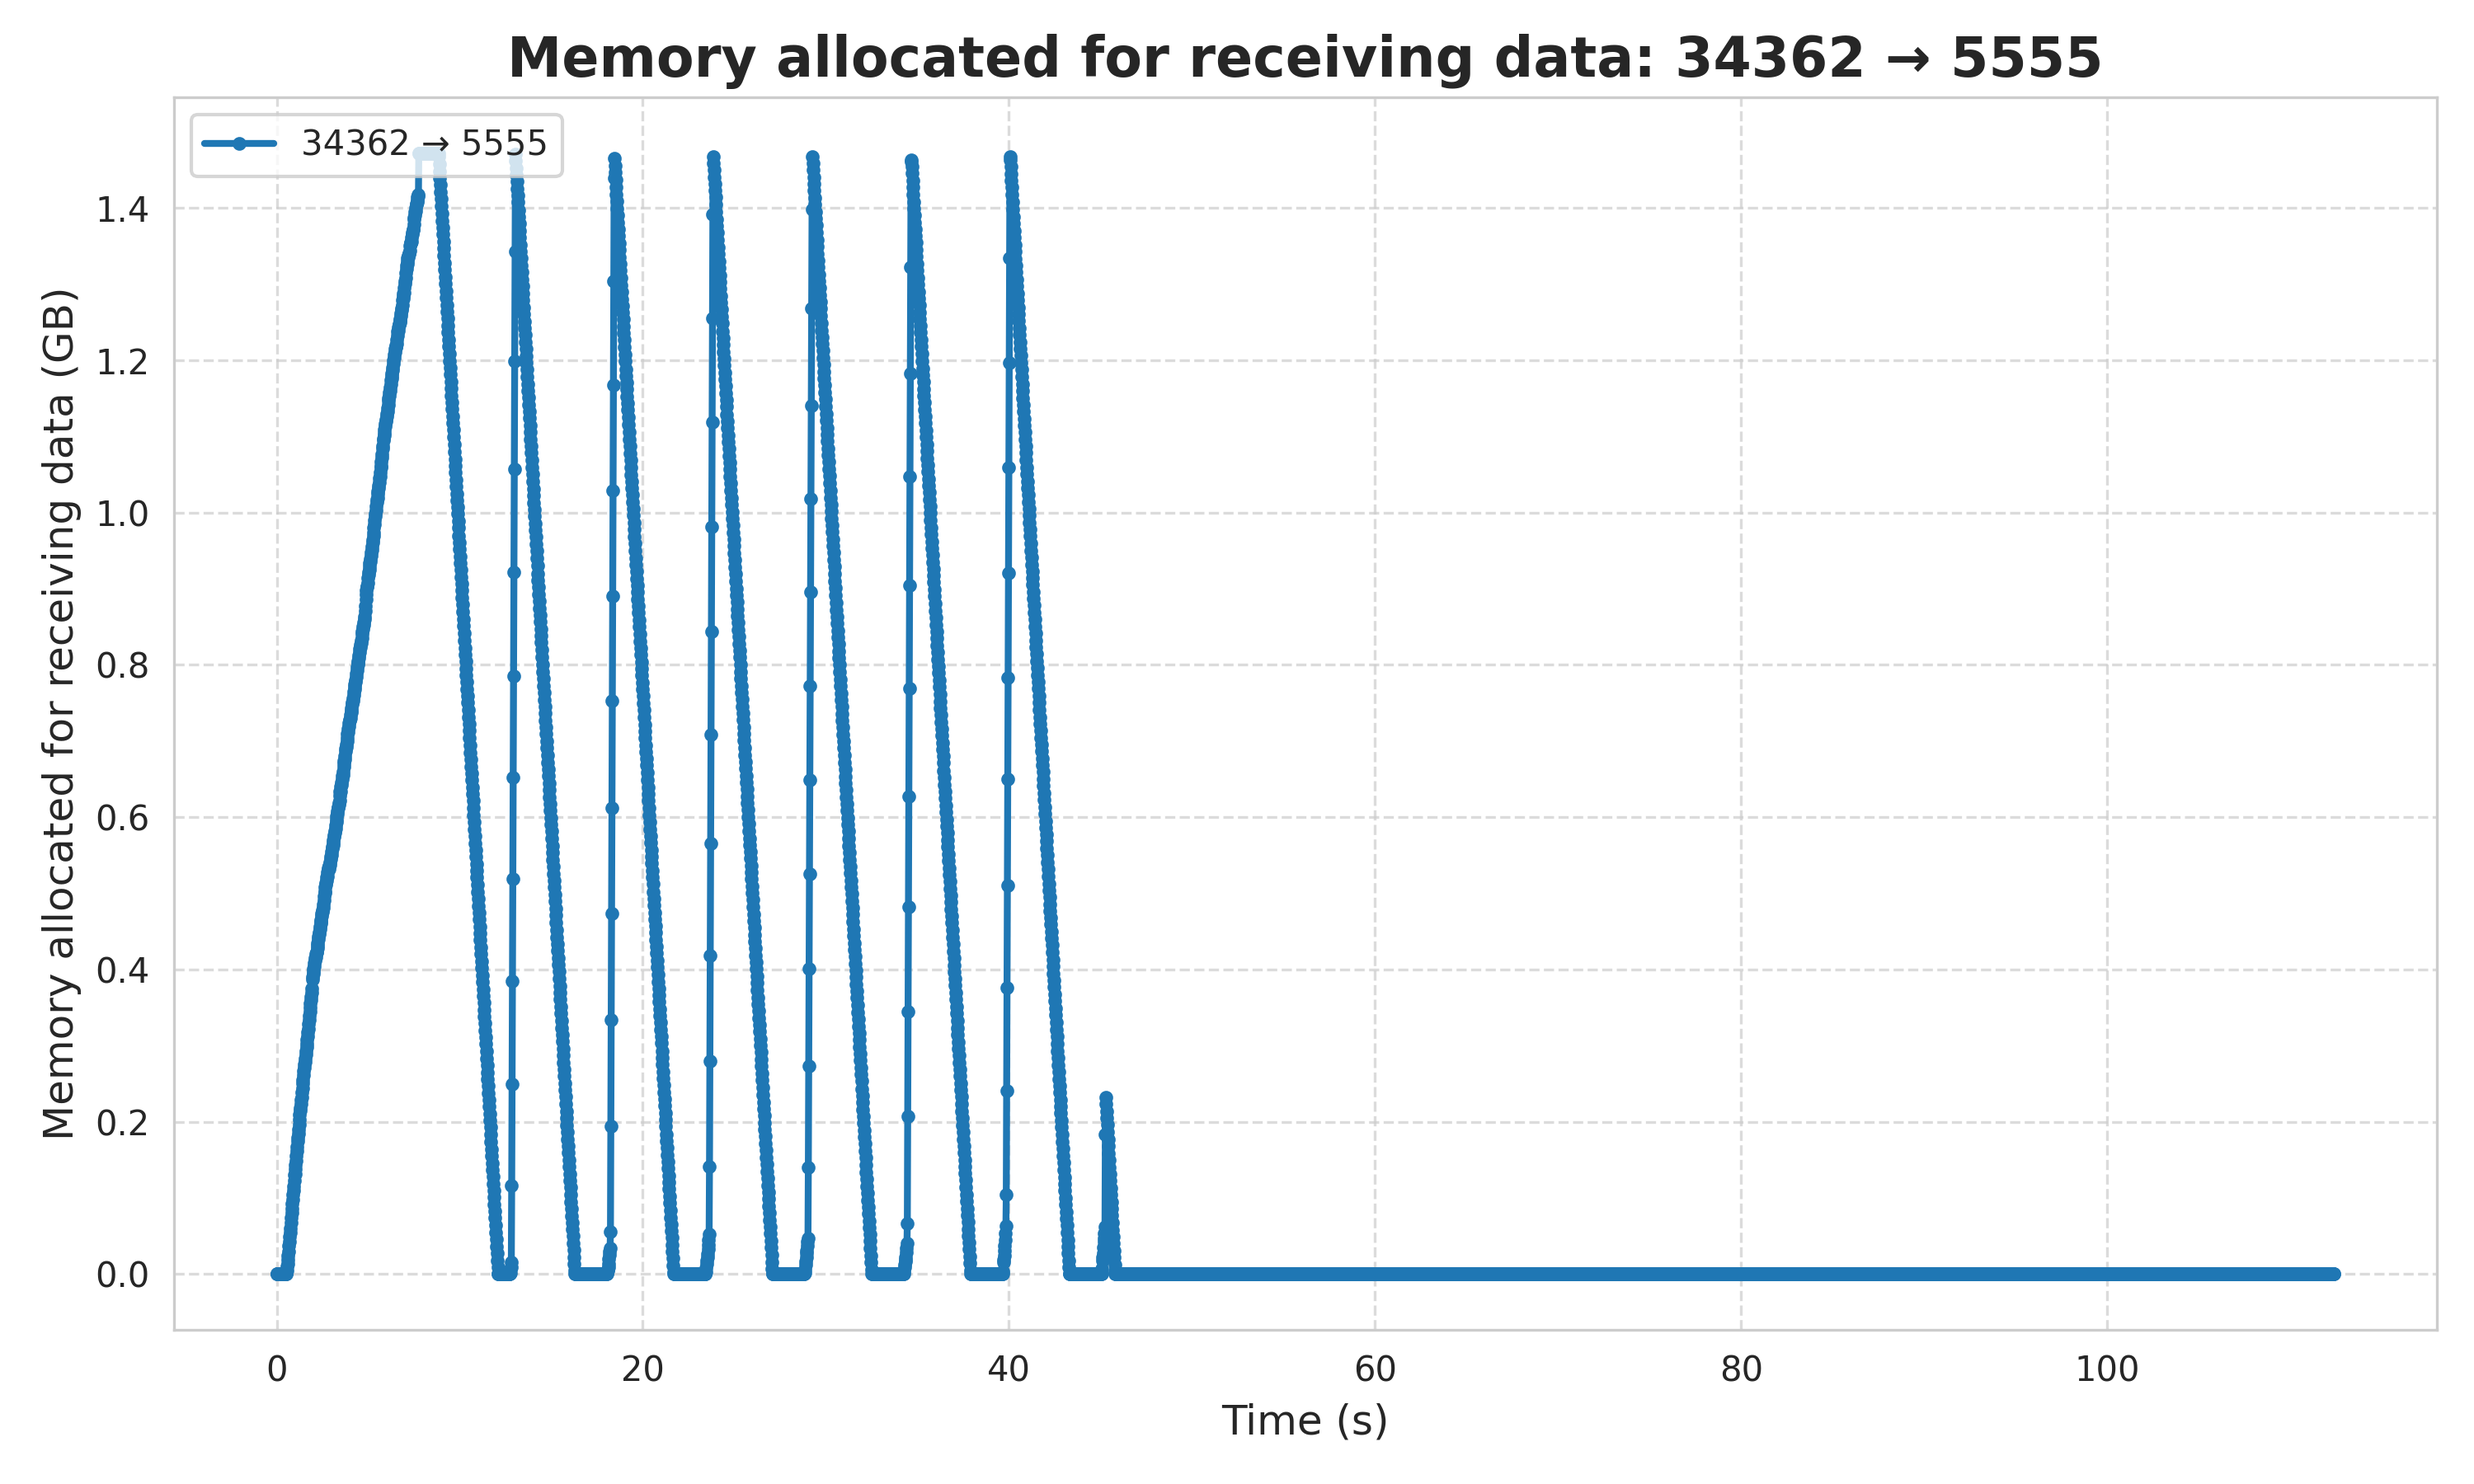
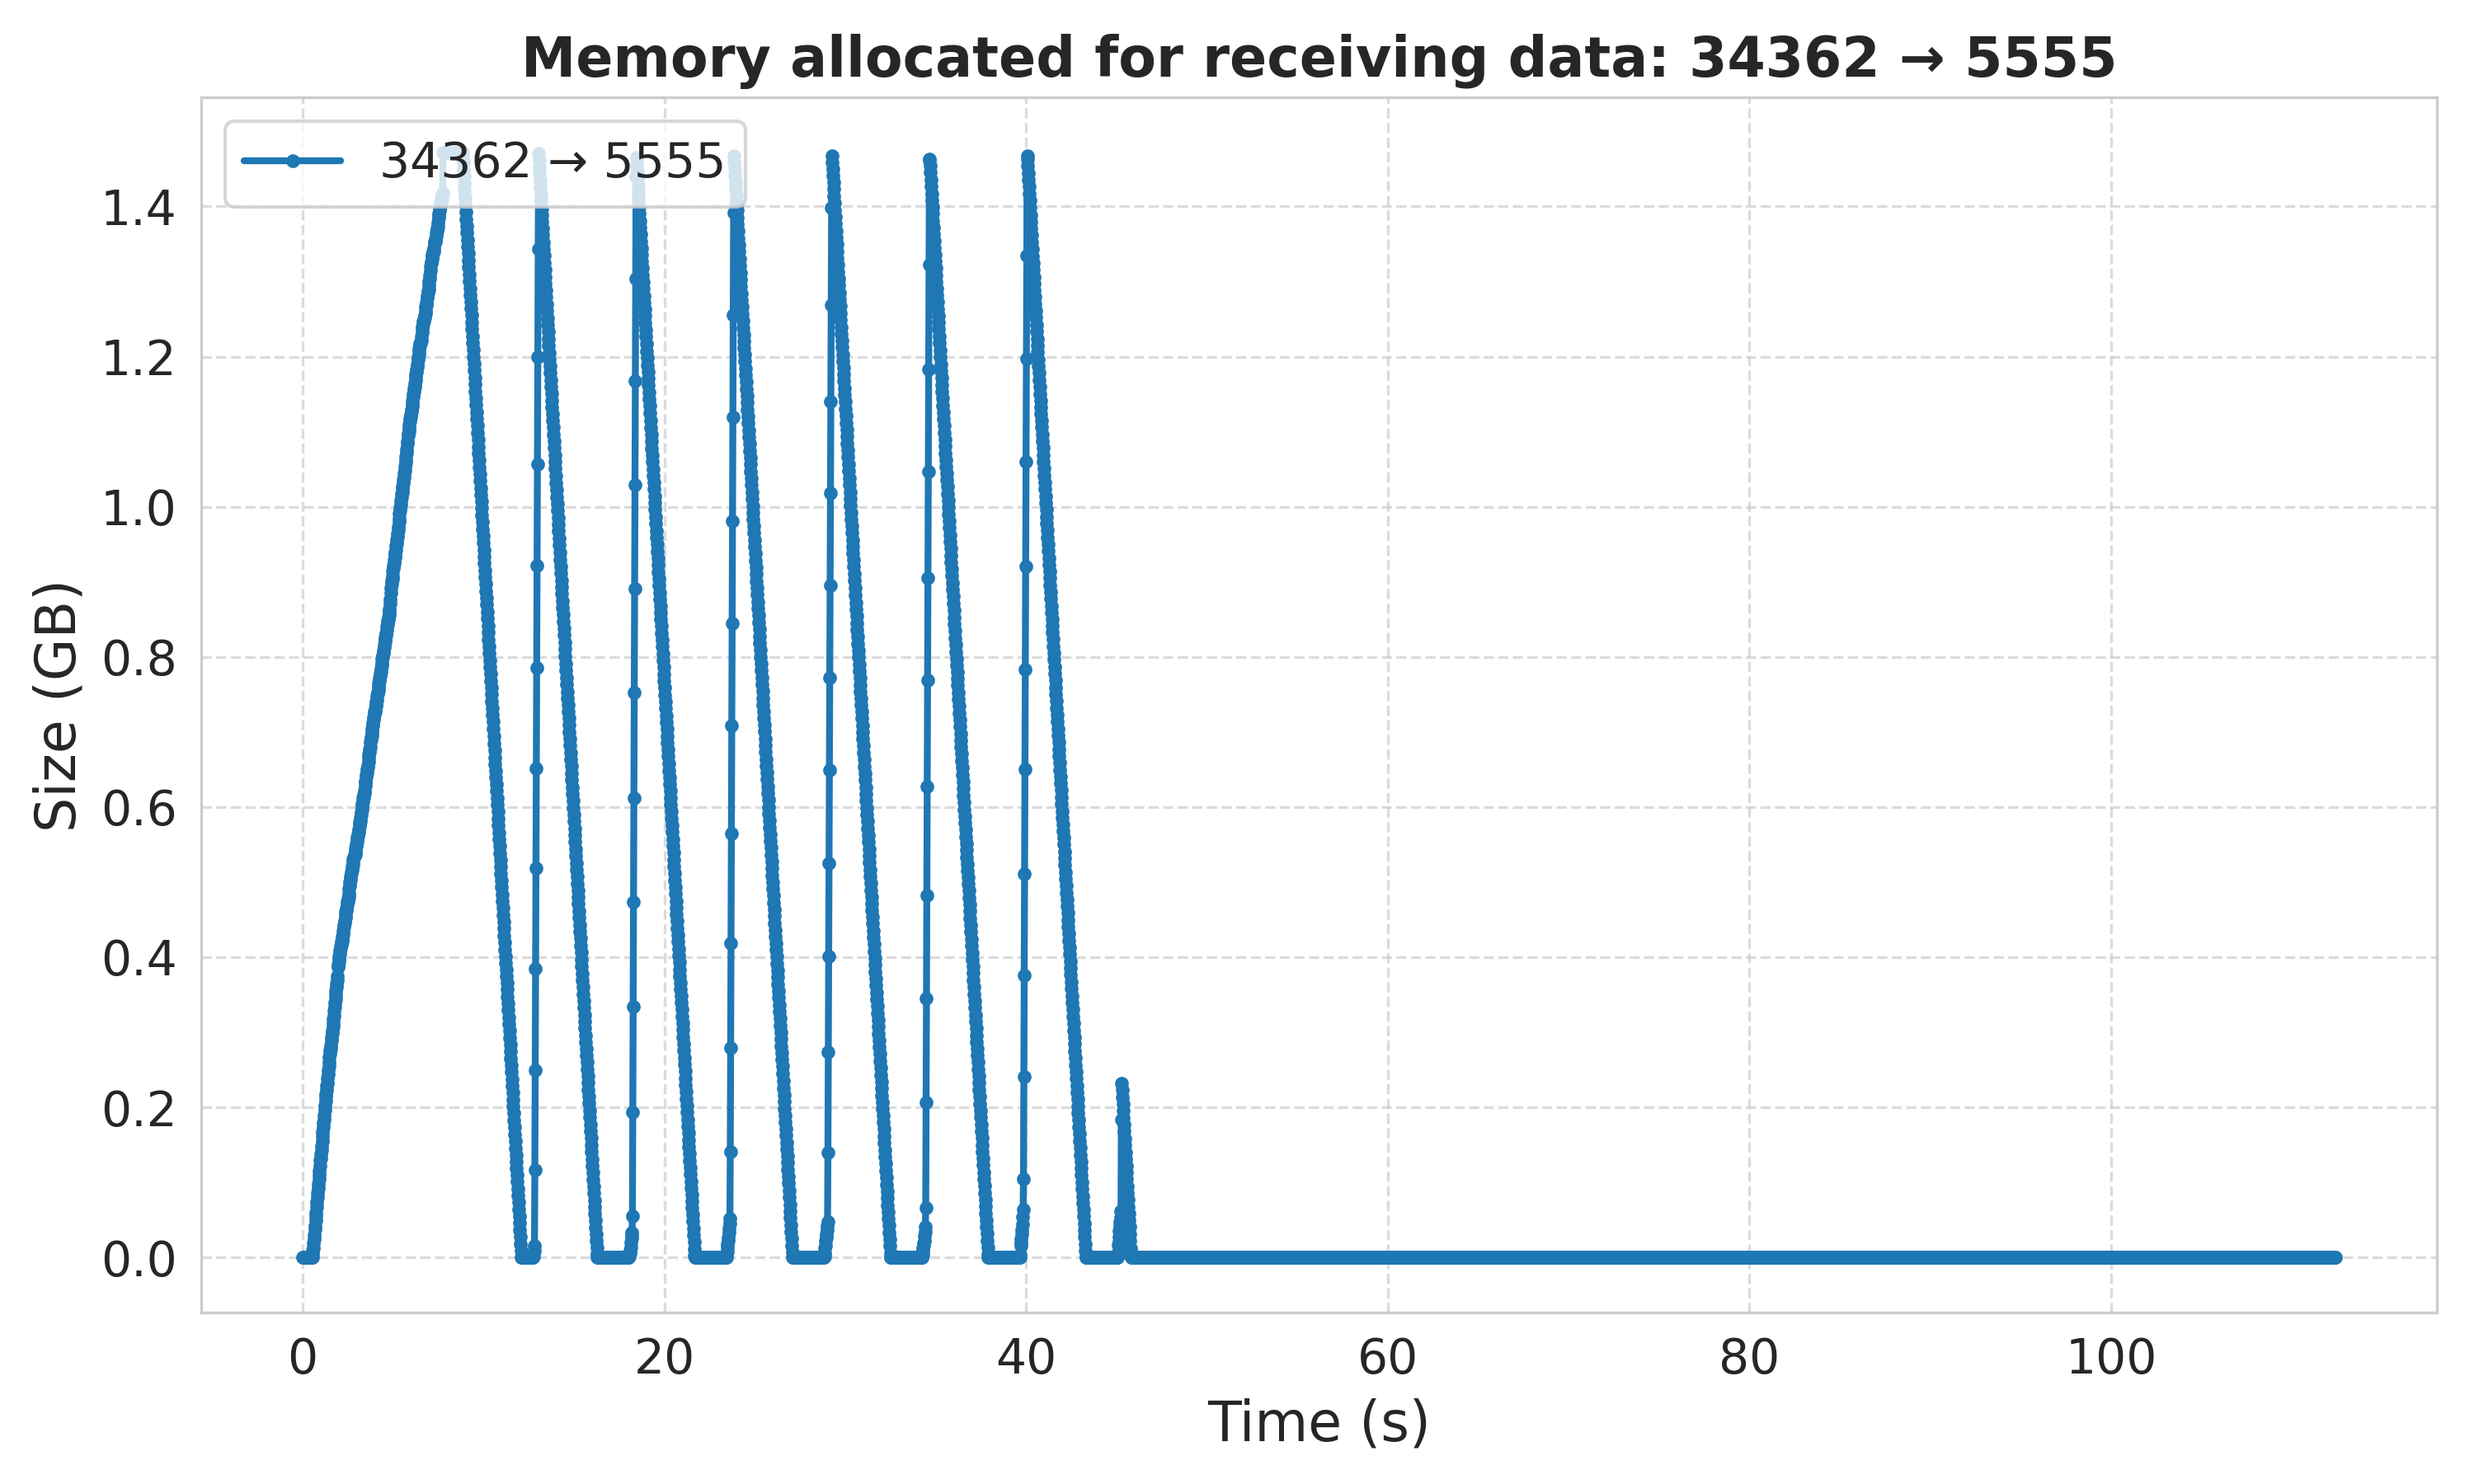
graph label size

diff --git a/performance/script/skmsg/sk/mem_sk_plotter.py b/performance/script/skmsg/sk/mem_sk_plotter.py
@@ -45,12 +45,12 @@ for _, row in port_pairs.iterrows():
     )
 
     plt.title(f"Memory allocated for receiving data: {src} → {dst}", fontsize=16, fontweight='bold')
-    plt.xlabel("Time (s)", fontsize=12)
-    plt.ylabel("Memory allocated for receiving data (GB)", fontsize=12)
-    plt.xticks(fontsize=10)
-    plt.yticks(fontsize=10)
+    plt.xlabel("Time (s)", fontsize=16)
+    plt.ylabel("Size (GB)", fontsize=16)
+    plt.xticks(fontsize=14)
+    plt.yticks(fontsize=14)
     plt.grid(True, linestyle='--', alpha=0.7)
-    plt.legend(loc='upper left', fontsize=10)
+    plt.legend(loc='upper left', fontsize=14)
     plt.tight_layout()
 
     output_plot_file = f"{output_file_name}_{src}_{dst}_Rmem_GB.png"

diff --git a/performance/script/skmsg/general/general_ram_graph_plotter.py b/performance/script/skmsg/general/general_ram_graph_plotter.py
@@ -36,12 +36,12 @@ plt.plot(
 
 # Labels and title
 plt.title('RAM Usage Over Time', fontsize=16, fontweight='bold')
-plt.xlabel("Time (s)", fontsize=12)
-plt.ylabel("RAM (GB)", fontsize=12)
-plt.xticks(fontsize=10)
-plt.yticks(fontsize=10)
+plt.xlabel("Time (s)", fontsize=16)
+plt.ylabel("RAM (GB)", fontsize=16)
+plt.xticks(fontsize=14)
+plt.yticks(fontsize=14)
 plt.grid(True, linestyle='--', alpha=0.7)
-plt.legend(loc='upper left', fontsize=10)
+plt.legend(loc='upper left', fontsize=14)
 plt.tight_layout()
 
 # Save figure
